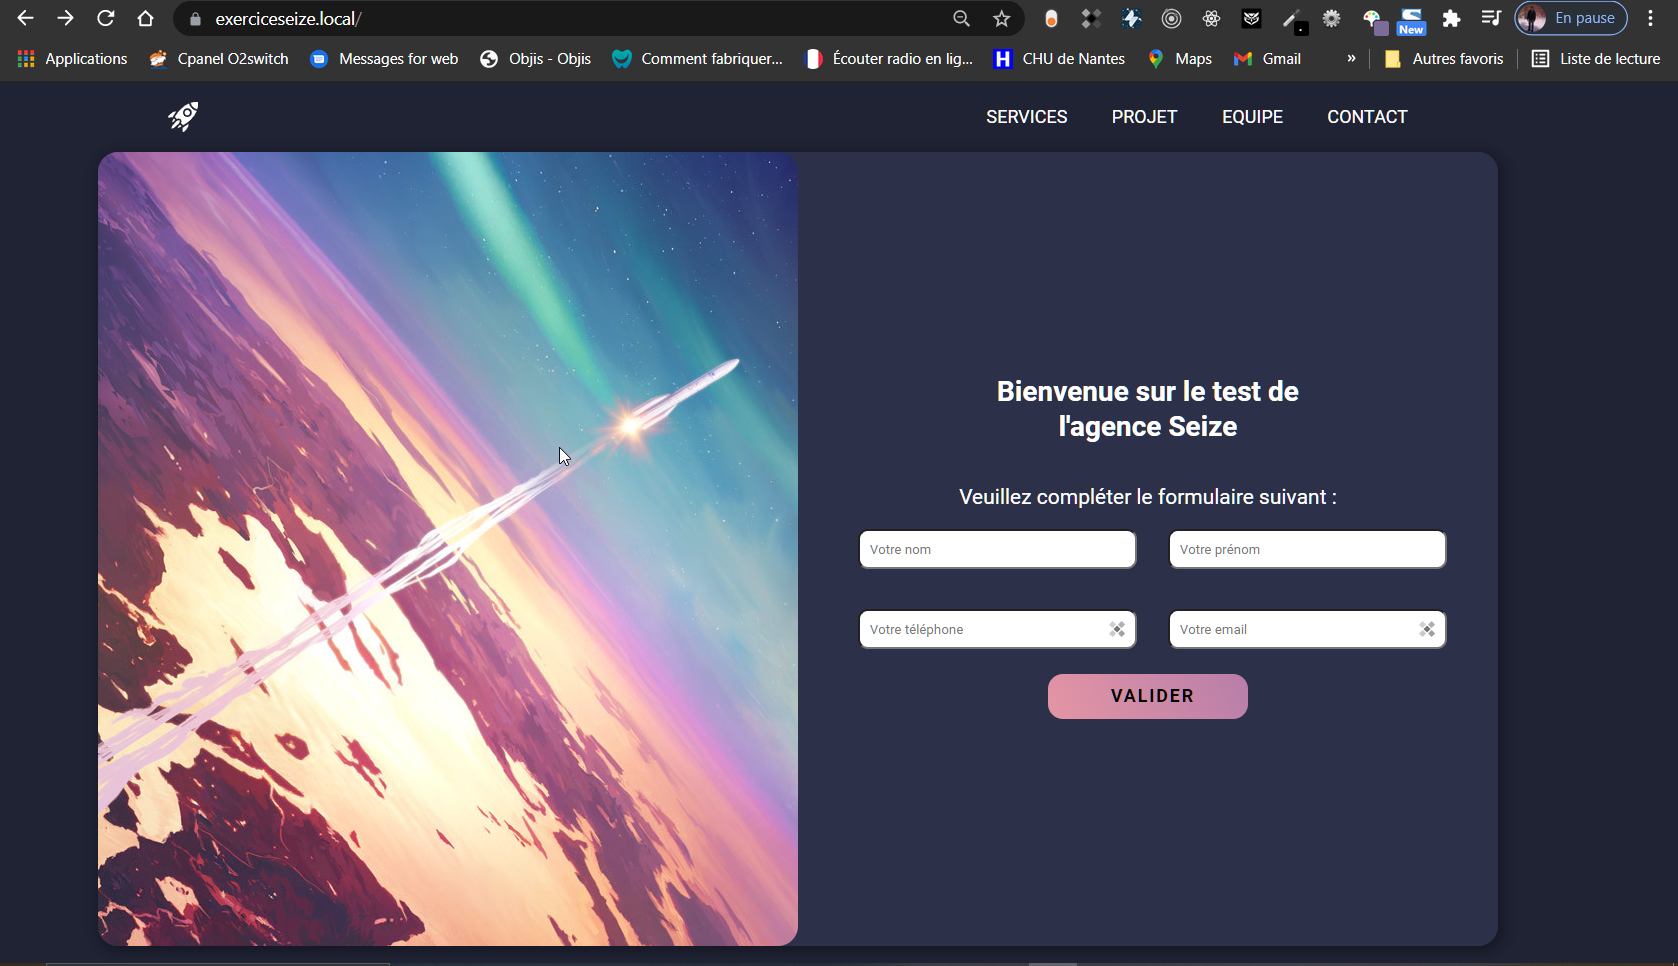
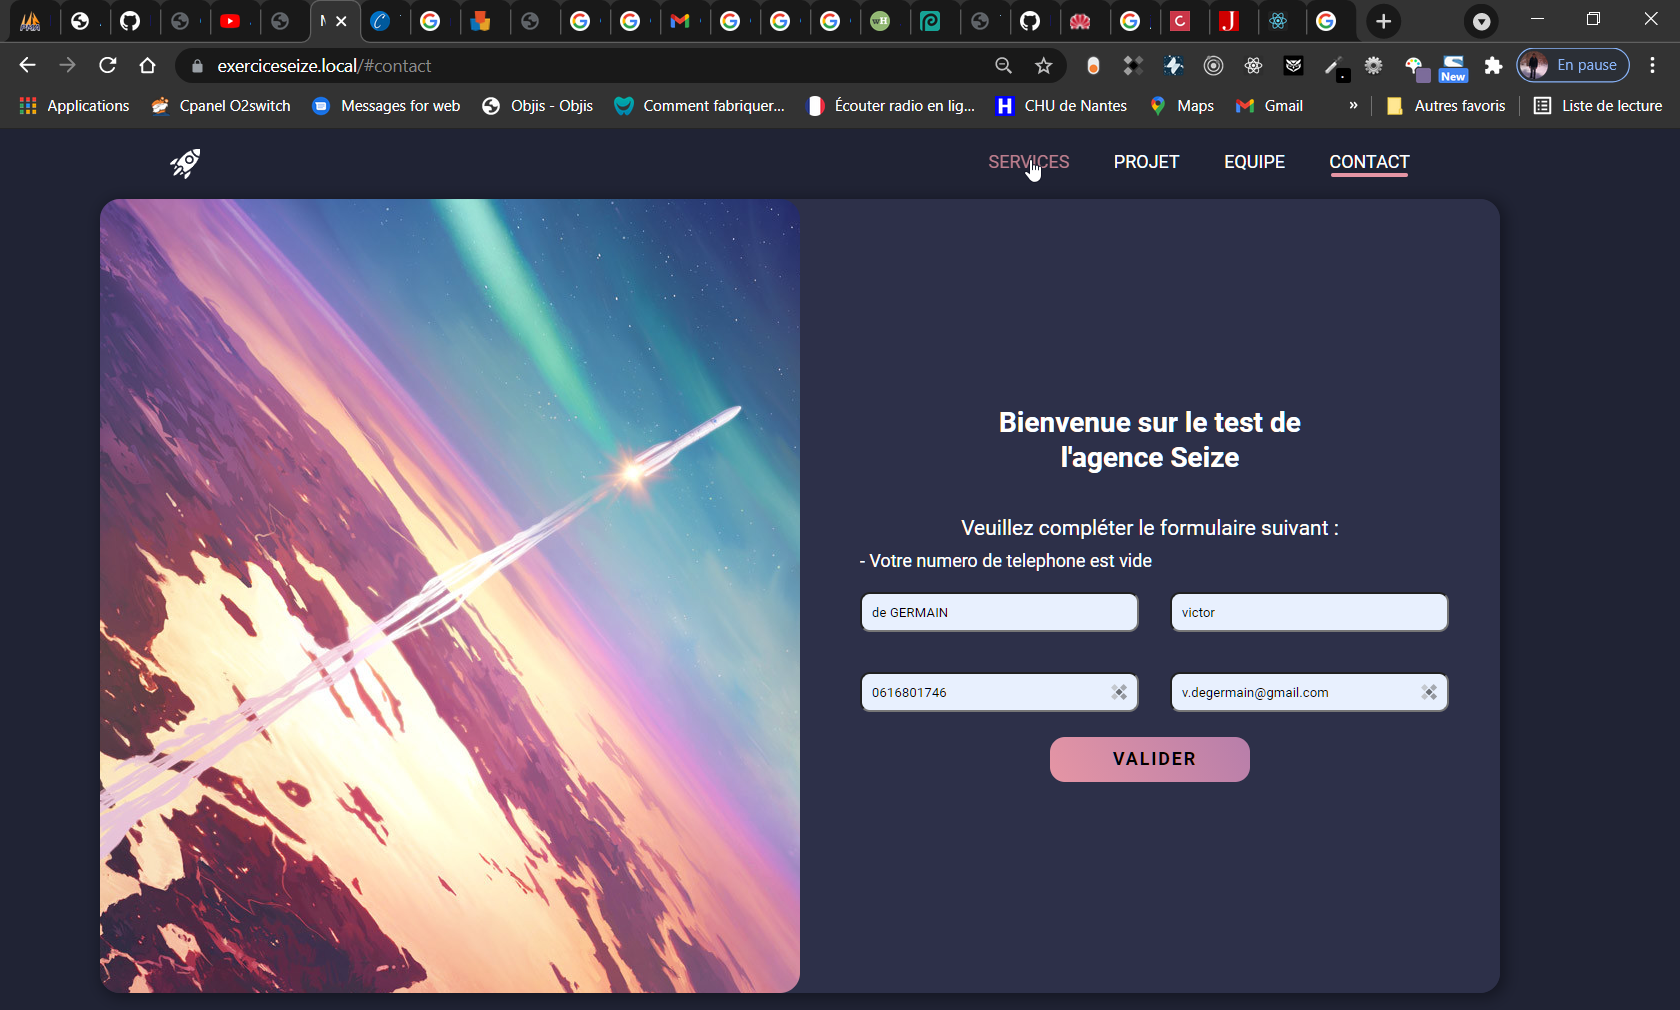
mardown preview et navbaarre couleur

diff --git a/assets/main.css b/assets/main.css
@@ -55,6 +55,9 @@ header{
 }
 
 
+/* Gestion de focus sur la navigation
+*
+*/
 li a:after {
   content: '';
   display: block;
@@ -64,12 +67,19 @@ li a:after {
   background: transparent;
   transition: width .5s ease, background-color .5s ease;
 }
-li a:hover:after {
+
+ li a:hover, a:hover:after {
+  width: 95%;
+  border-radius: 2px;
+  color: rgb(229, 149, 164);
+}
+
+li a:focus:after,li a:active:after   {
+    content: '';
   width: 95%;
   border-radius: 2px;
   background: rgb(229, 149, 164);
 }
-
 /* Fin  Definition du header menu navigation */
 
 

diff --git a/index.php b/index.php
@@ -14,13 +14,15 @@ require_once(dirname(__FILE__) . "/inc/functions.php");
   
   <body>
   <header>
-    <img  class=logo src="/img/rocket.svg" width='30px' height='30'px' alt="logo"/>
+    <a href="#">
+    <img href="#" class=logo src="/img/rocket.svg" width='30px' height='30'px' alt="logo"/>
+    </a>
       <nav class="nav" role="navigation">
         <ul clas="menu">
-          <li><a href="#">Services</a></li>
-          <li><a href="#">Projet</a></li>
-          <li><a href="#">Equipe</a></li>
-          <li><a href="#">Contact</a></li>
+          <li><a href="#services">Services</a></li>
+          <li><a href="#projets">Projet</a></li>
+          <li><a href="#equipe">Equipe</a></li>
+          <li><a href="#contact">Contact</a></li>
         </ul>
   </nav>
   </header>

diff --git a/readme.md b/readme.md
@@ -15,3 +15,6 @@
 ( c'est la dessus que je veux devenir un expert généré des modeles rapidement à partir d'un design!)
 
 Un echange à loral permettra d'aborder de nombreux point pour les axes d'ameliorations et progression professionelle ! 
+
+## Resultat visuel 
+![alt resultat](./jpg/Resultat/preview.png "preview")
